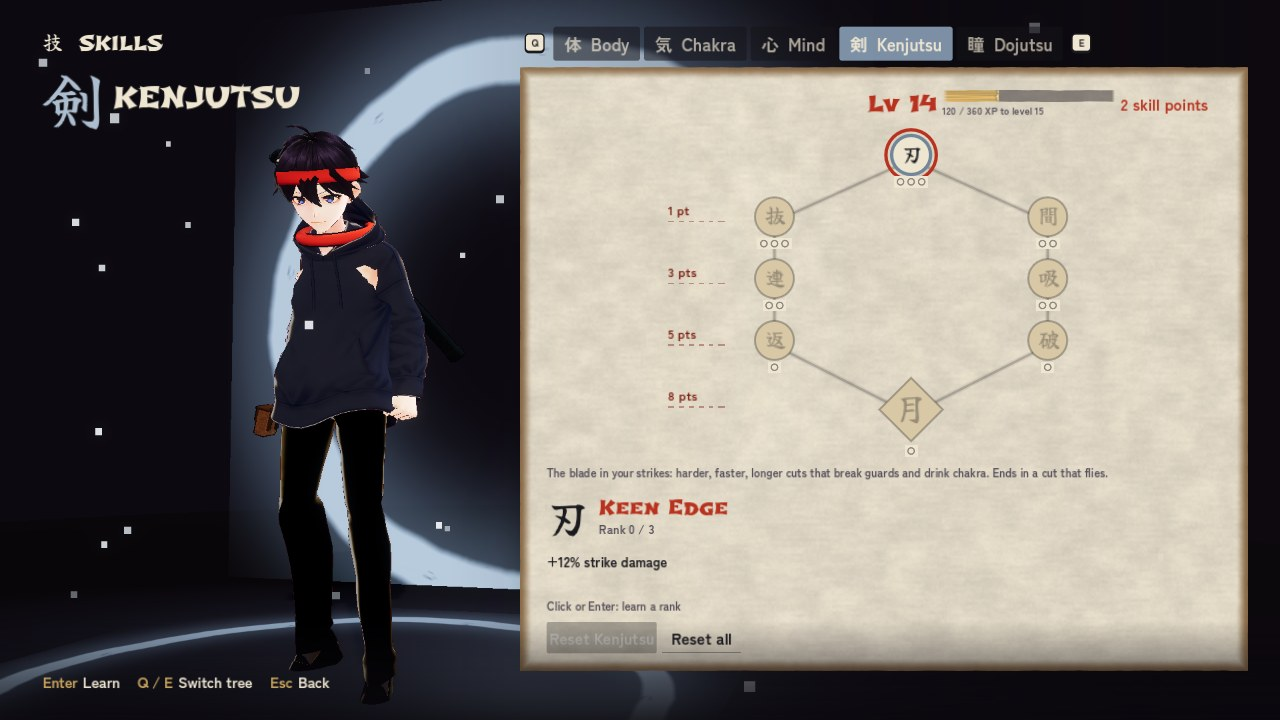
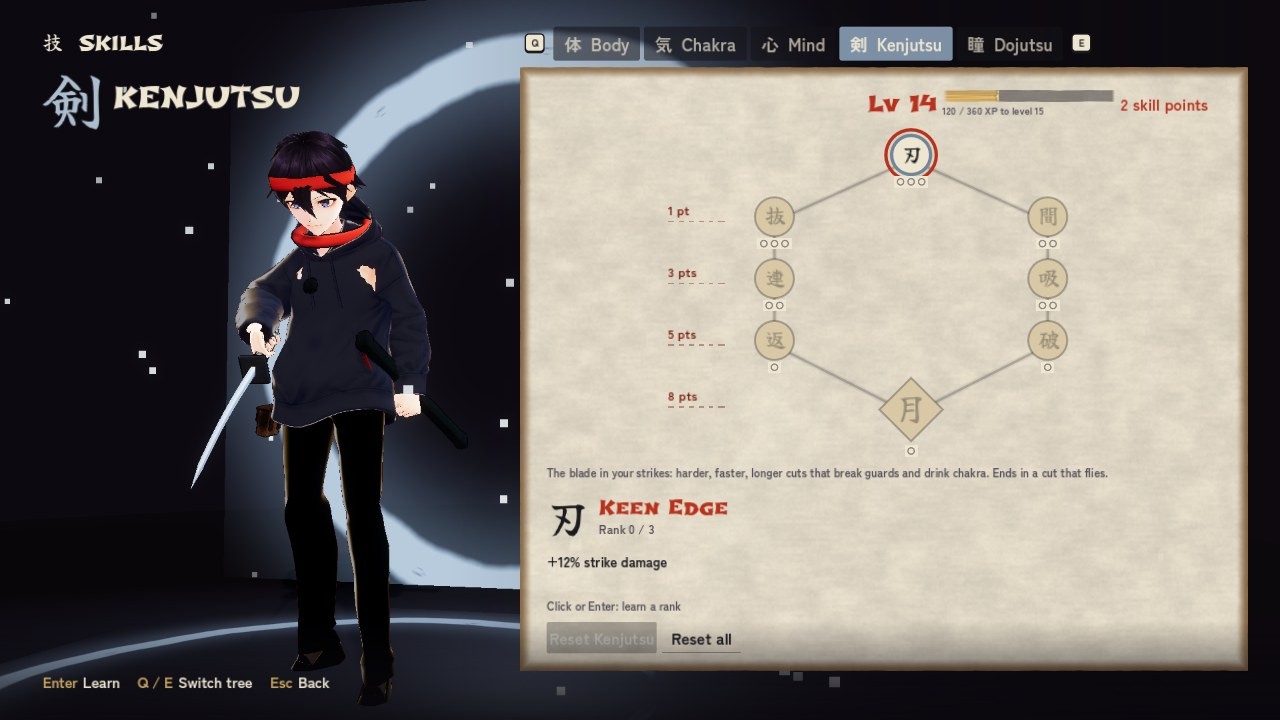
README: the Kenjutsu tree retaken with the katana drawn
Claude-Session: https://claude.ai/code/session_01DqBv8oL4a9RnAAVXx332Bi

diff --git a/README.md b/README.md
@@ -27,7 +27,7 @@ controls can be remapped.
 |---|---|
 | ![Emberwood's academy yard: lanterns, practice dummies and the pillar of light where the next mission waits](docs/images/world_emberwood.jpg) | ![Out at sea between islands, Autumn Wood and the Frozen Road on the horizon](docs/images/world_islands.jpg) |
 | ![Pause → Map: the islands charted, found ones named and travelled to](docs/images/world_map.jpg) | ![Pause → Quests: the story mission, a side quest under way, one on offer and two done](docs/images/world_quests.jpg) |
-| ![The Kenjutsu skill tree beside your shinobi on a lit stage](docs/images/skills_kenjutsu.jpg) | ![The Dojutsu skill tree: the camera pushes in on your face with your eyes open](docs/images/skills_dojutsu.jpg) |
+| ![The Kenjutsu skill tree beside your shinobi on a lit stage, katana drawn](docs/images/skills_kenjutsu.jpg) | ![The Dojutsu skill tree: the camera pushes in on your face with your eyes open](docs/images/skills_dojutsu.jpg) |
 
 ![Story mode, chapter 2, The Ashen Trail: Kagerou wreathed in fire on a snowy night](docs/images/story_night.jpg)
 
